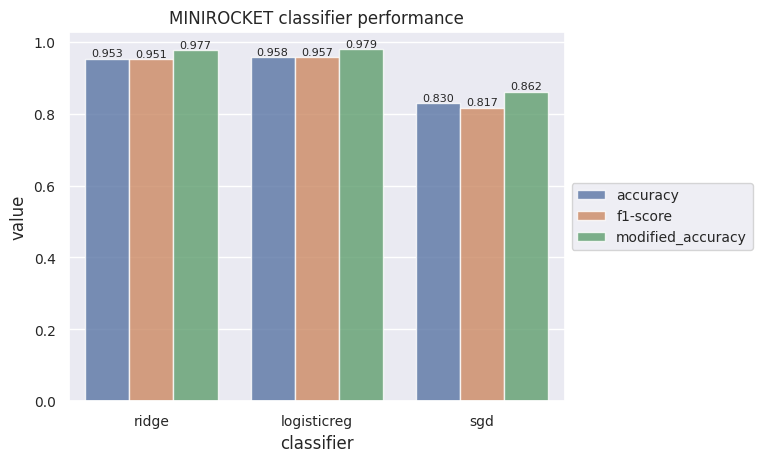
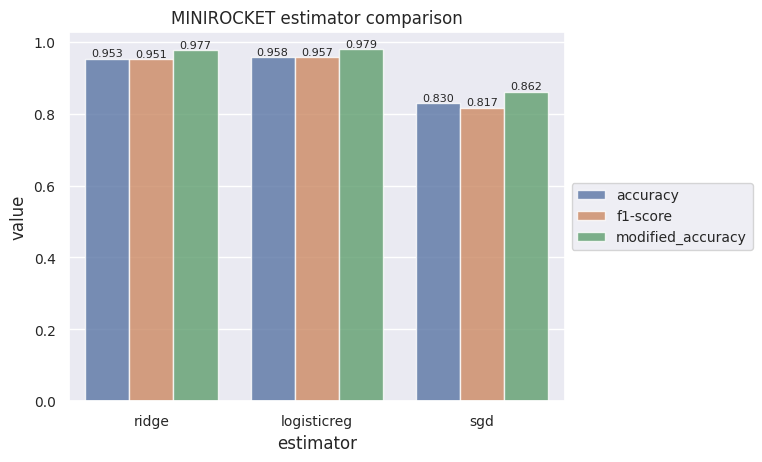
updated num kernel analysis

Changed region(s): [[0.2113, 0.0, 0.6037, 0.0606], [0.3622, 0.9394, 0.4829, 0.9697]]

diff --git a/analysis/plot_results.py b/analysis/plot_results.py
@@ -30,7 +30,7 @@ def plot_estimator_comparison():
     
     classifiers = ['ridge', 'logisticreg', 'sgd']
 
-    df = pd.DataFrame([], columns=['classifier', 'accuracy', 'f1-score', 'modified_accuracy'])
+    df = pd.DataFrame([], columns=['estimator', 'accuracy', 'f1-score', 'modified_accuracy'])
 
     for classifier in classifiers:
         pred_file = f'classification/minirocket_full_{classifier}/predictions.pkl'
@@ -47,11 +47,11 @@ def plot_estimator_comparison():
         ]
 
     # reshape dataframe
-    df = pd.melt(df, id_vars='classifier', var_name='metric', value_name='value')
+    df = pd.melt(df, id_vars='estimator', var_name='metric', value_name='value')
 
     # plot
     with sns.color_palette('deep', n_colors=3):
-        ax = sns.barplot(df, x='classifier', y='value', hue='metric', alpha=0.8)
+        ax = sns.barplot(df, x='estimator', y='value', hue='metric', alpha=0.8)
     
     for container in ax.containers:
         for rect in container.patches:
@@ -59,10 +59,10 @@ def plot_estimator_comparison():
             val = f'{height:.3f}'
             ax.text(rect.get_x() + rect.get_width() / 2, height, val, ha='center', va='bottom', fontsize=8)
     
-    plt.title('MINIROCKET classifier performance', fontsize=12)
+    plt.title('MINIROCKET estimator comparison', fontsize=12)
     plt.tick_params(axis='both', which='major', labelsize=10)
     plt.legend(bbox_to_anchor=(1, 0.5), loc='center left', fontsize=10)
-    plt.savefig('figs/compare_classifiers.png', bbox_inches='tight')
+    plt.savefig('figs/compare_estimators.png', bbox_inches='tight')
     plt.show()
 
 def plot_classifier_comparison():
@@ -130,6 +130,7 @@ def plot_kernel_comparison():
     kernels = {
         10000: 'classification/rocket_full_default',
         5000: 'classification/rocket_full_5000-kernels',
+        8000: 'classification/rocket_full_8000-kernels',
         11000: 'classification/rocket_full_11000-kernels'
     }
 
@@ -166,6 +167,6 @@ def plot_padding():
     pass
 
 if __name__=='__main__':
-    #plot_estimator_comparison()
-    #plot_kernel_comparison()
+    plot_estimator_comparison()
+    plot_kernel_comparison()
     plot_classifier_comparison()
